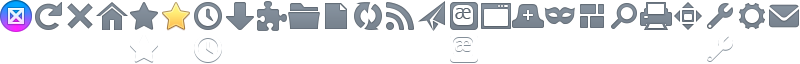
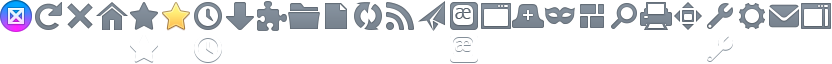
bug 960198 make sidebars available from a customizable widget, r=mconley
UltraBlame original commit: 29c4b76e7364ec978588420ef6ae9e759c691a16

diff --git a/browser/themes/osx/browser.css b/browser/themes/osx/browser.css
@@ -678,6 +678,10 @@ toolbar .toolbarbutton-1:not([type="menu-button"]),
     -moz-image-region: rect(18px, 666px, 36px, 648px);
   }
 
+  #sidebar-button@toolbarButtonPressed@ {
+    -moz-image-region: rect(18px, 684px, 36px, 666px);
+  }
+
   
 
 
@@ -1001,6 +1005,14 @@ toolbar .toolbarbutton-1:not([type="menu-button"]),
     -moz-image-region: rect(36px, 1332px, 72px, 1296px);
   }
 
+  #sidebar-button[cui-areatype="toolbar"] {
+    -moz-image-region: rect(0, 1368px, 36px, 1332px);
+  }
+
+  #sidebar-button[cui-areatype="toolbar"]:hover:active:not([disabled="true"]) {
+    -moz-image-region: rect(36px, 1368px, 72px, 1332px);
+  }
+
   :-moz-any(@primaryToolbarButtons@) > .toolbarbutton-icon,
   :-moz-any(@primaryToolbarButtons@) > .toolbarbutton-menubutton-button > .toolbarbutton-icon {
     width: 18px;
@@ -1132,6 +1144,11 @@ toolbar .toolbarbutton-1:not([type="menu-button"]),
   #email-link-button[cui-areatype="menu-panel"],
   toolbarpaletteitem[place="palette"] > #email-link-button {
     -moz-image-region: rect(0px, 1600px, 64px, 1536px);
+  }
+
+  #sidebar-button[cui-areatype="menu-panel"],
+  toolbarpaletteitem[place="palette"] > #sidebar-button {
+    -moz-image-region: rect(0px, 1664px, 64px, 1600px);
   }
 
   

diff --git a/browser/themes/shared/menupanel.inc.css b/browser/themes/shared/menupanel.inc.css
@@ -126,6 +126,11 @@ toolbarpaletteitem[place="palette"] > #email-link-button {
   -moz-image-region: rect(0, 800px, 32px, 768px);
 }
 
+#sidebar-button[cui-areatype="menu-panel"],
+toolbarpaletteitem[place="palette"] > #sidebar-button {
+  -moz-image-region: rect(0, 832px, 32px, 800px);
+}
+
 
 
 #edit-controls@inAnyPanel@ > toolbarbutton,

diff --git a/browser/themes/shared/toolbarbuttons.inc.css b/browser/themes/shared/toolbarbuttons.inc.css
@@ -68,6 +68,10 @@
   -moz-image-region: rect(0, 666px, 18px, 648px);
 }
 
+#sidebar-button[cui-areatype="toolbar"] {
+  -moz-image-region: rect(0, 684px, 18px, 666px);
+}
+
 #characterencoding-button[cui-areatype="toolbar"]{
   -moz-image-region: rect(0, 324px, 18px, 306px);
 }
